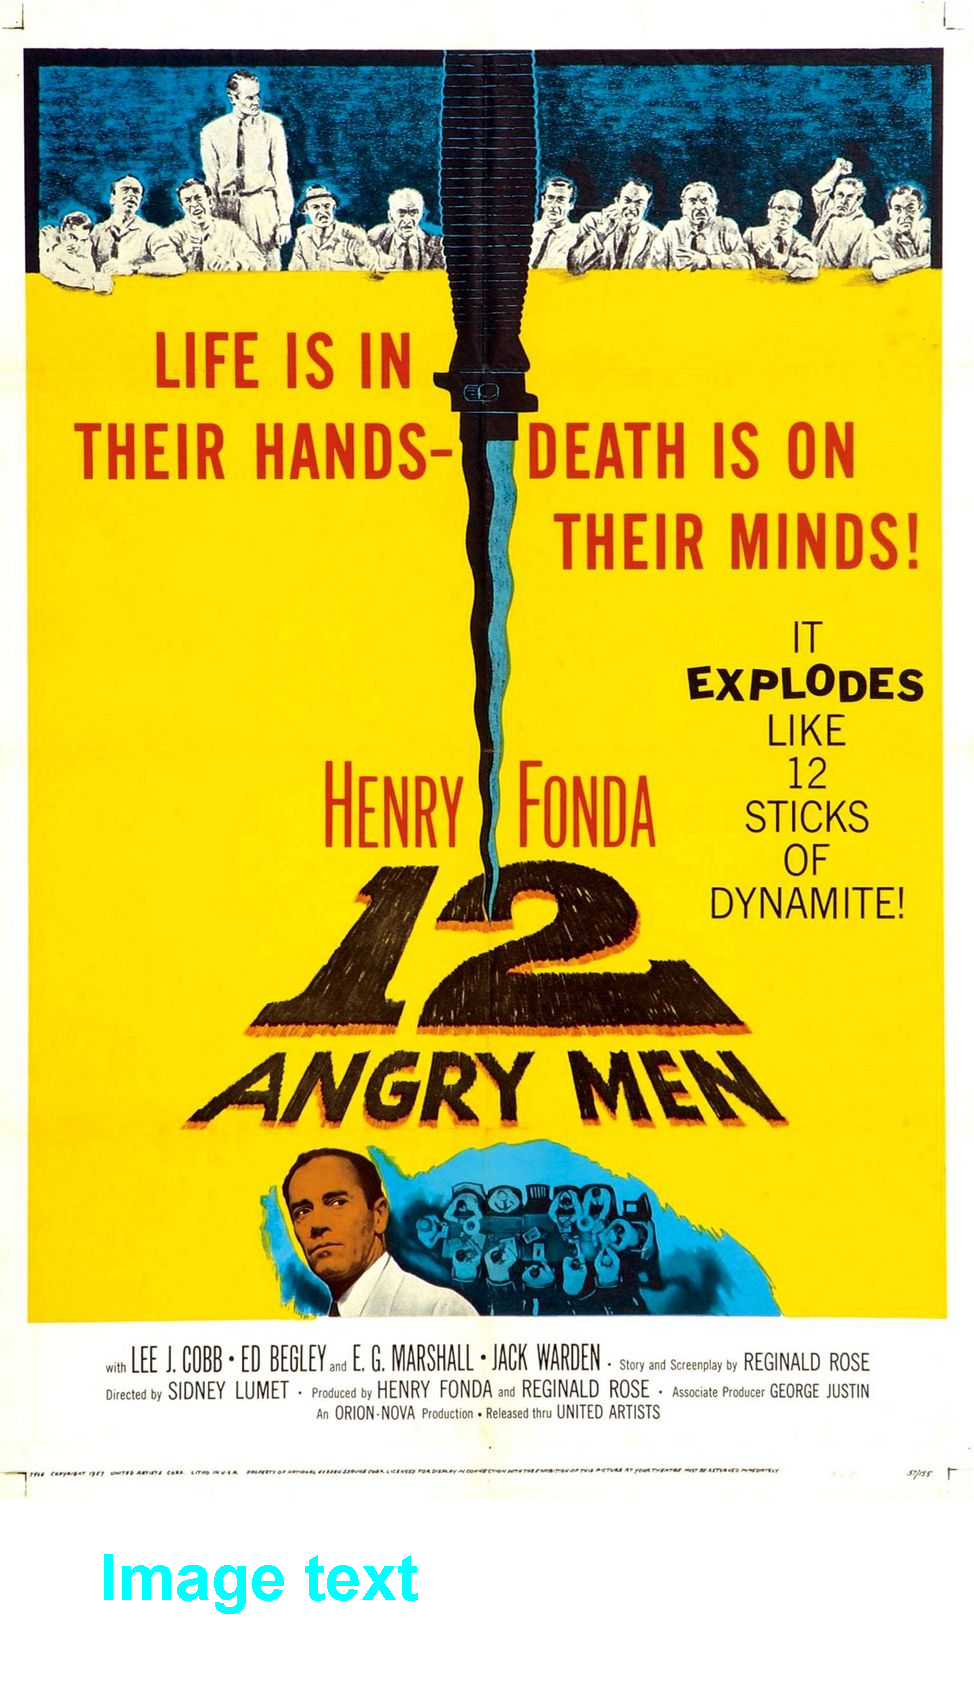
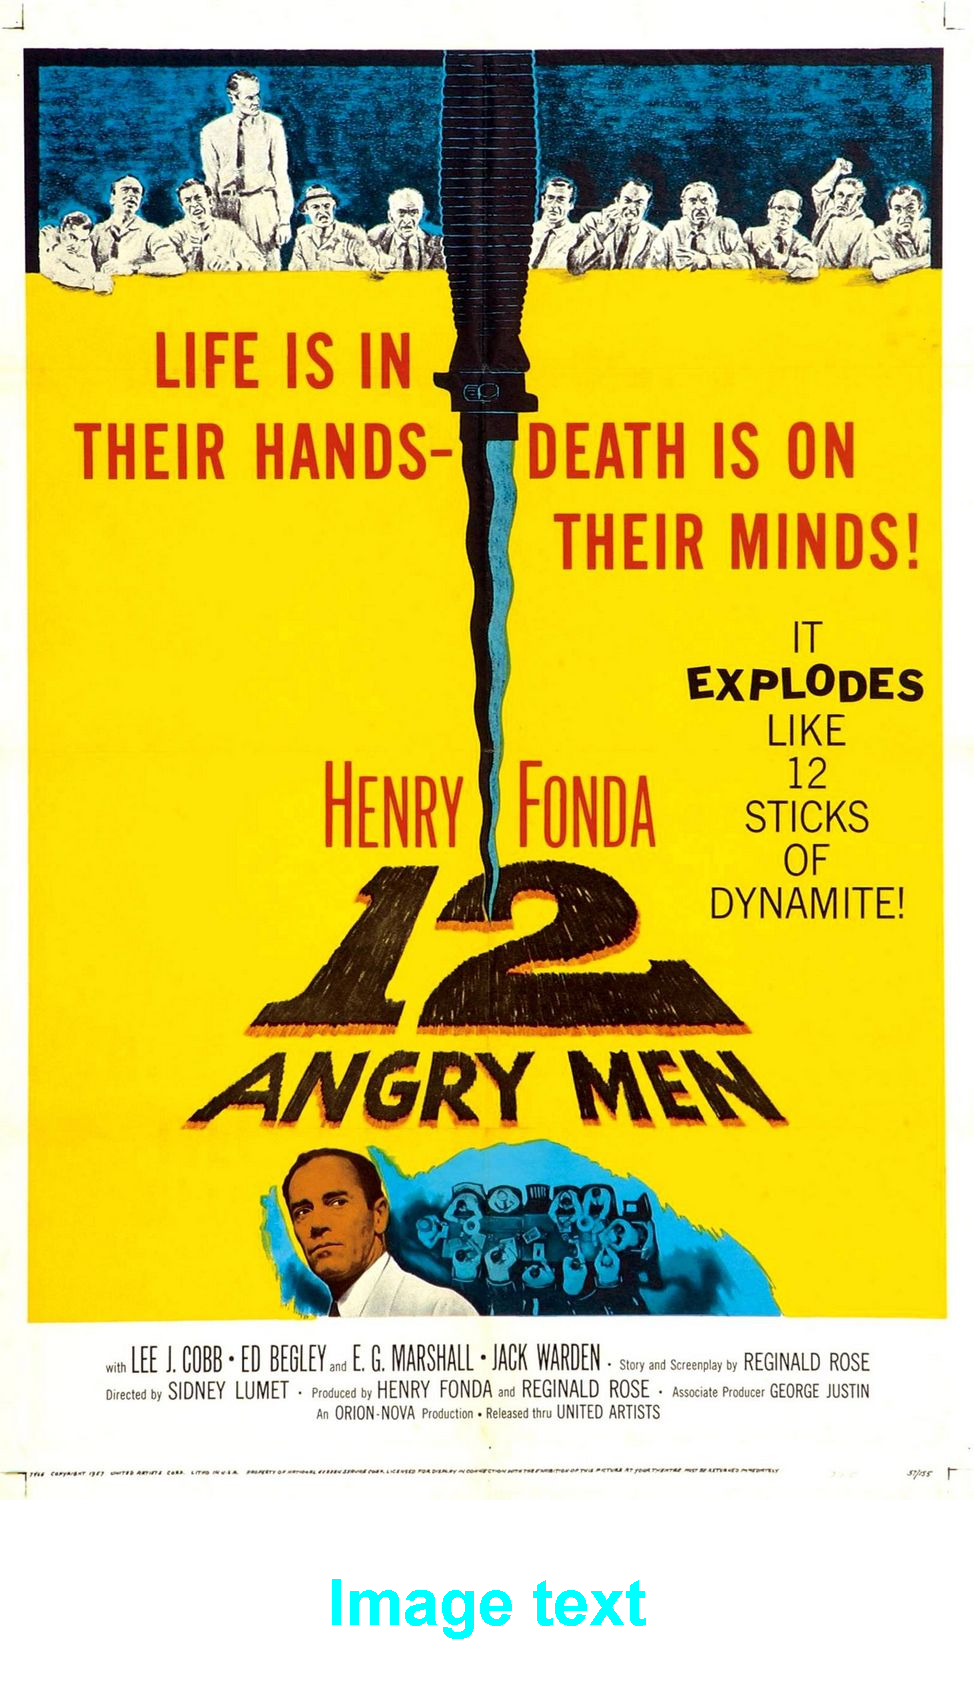
Fix: Centralizing the image text

Changed region(s): [[0.0924, 0.9041, 0.5236, 0.9665], [0.5544, 0.9353, 0.6776, 0.9665]]

diff --git a/imersao-java-alura/src/utils/StickerFactory.java b/imersao-java-alura/src/utils/StickerFactory.java
@@ -2,6 +2,7 @@ package utils;
 
 import javax.imageio.ImageIO;
 import java.awt.*;
+import java.awt.geom.Rectangle2D;
 import java.awt.image.BufferedImage;
 import java.io.File;
 import java.io.IOException;
@@ -30,7 +31,15 @@ public class StickerFactory {
         graphics.setFont(new Font(Font.SANS_SERIF, Font.BOLD, 64));
 
         // Write something on the new image
-        graphics.drawString("Image text", 100, newHeight - 100);
+        String text = "Image text";
+
+        FontMetrics fontMetrics = graphics.getFontMetrics();
+        Rectangle2D textRectangle = fontMetrics.getStringBounds(text, graphics);
+
+        int textWidth = (int) textRectangle.getWidth();
+        int centeredPosition = (width - textWidth) / 2;
+
+        graphics.drawString(text, centeredPosition, newHeight - 75);
 
         // Write the new image in a file
         ImageIO.write(newImage, "png", new File(fileName));
